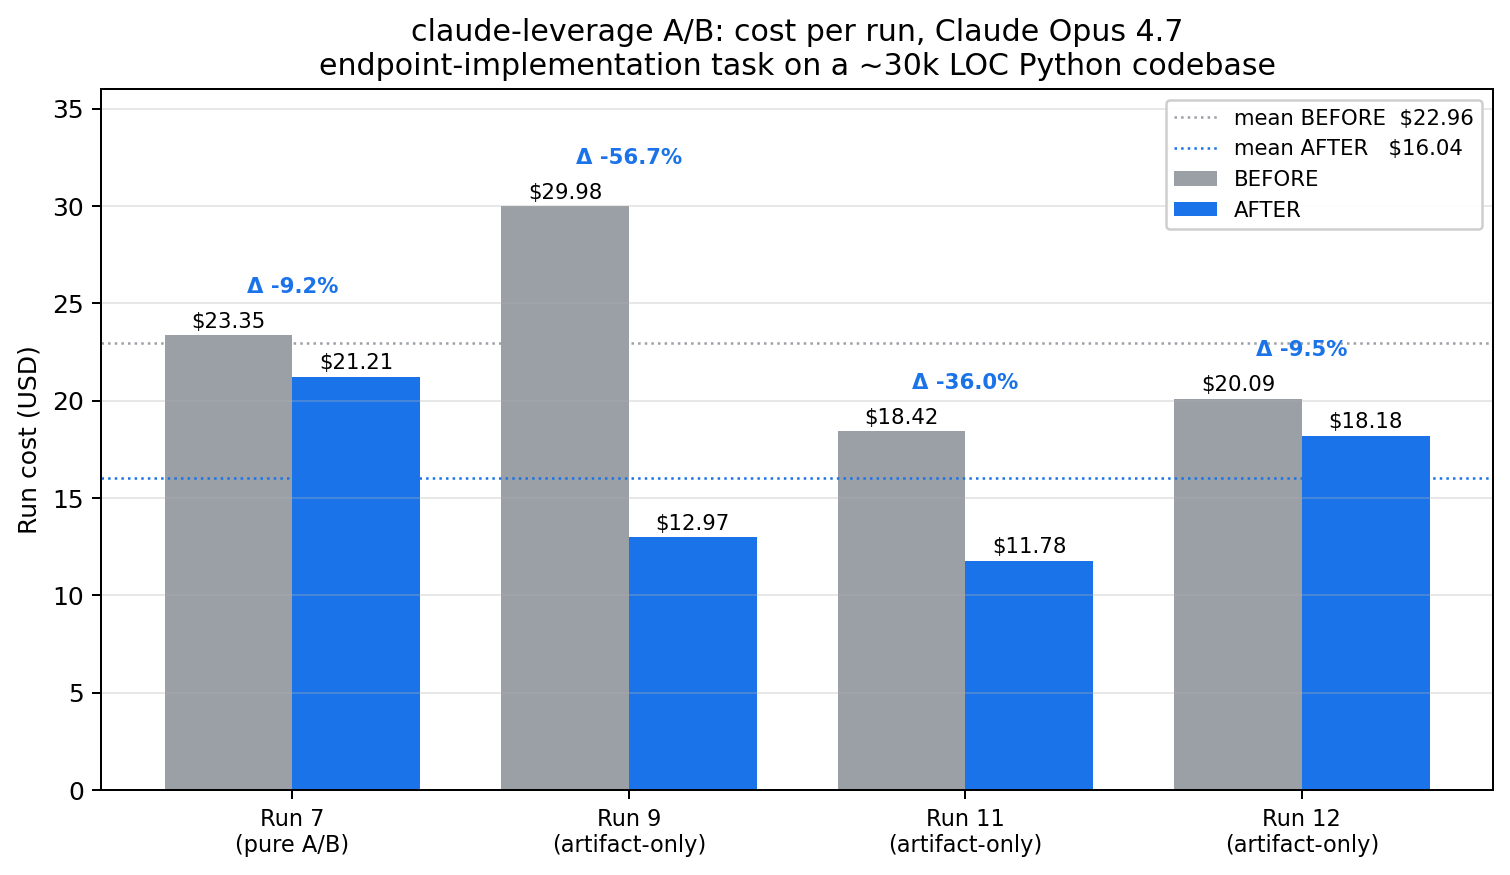
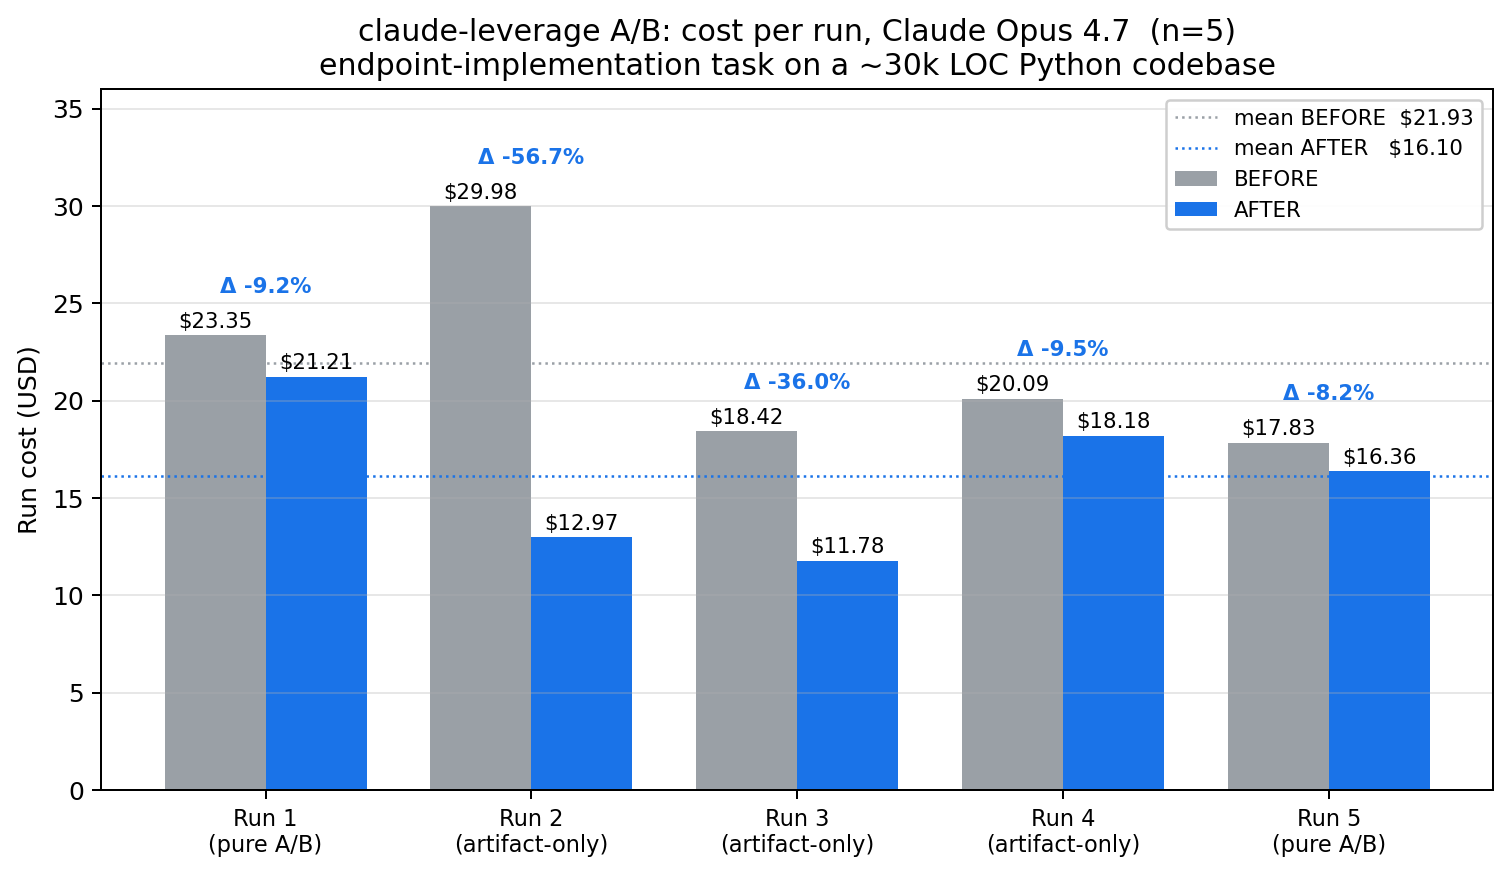
docs(bench): n=5 Opus runs, public Run 1-5 numbering
Adds the 5th Opus 4.7 datapoint and re-numbers the canonical dataset
in all public-facing artifacts (chart, README headline table, methodology
stub) as Run 1-5 sequentially. Internal session IDs remain unchanged
in local benchmark notes.

Updated numbers:
- Mean BEFORE $21.93 / AFTER $16.10 / Δ −26.6%
- Median Δ −9.5% (with the new mid-range datapoint added)
- AFTER cheaper in 5/5 runs (was 4/4)
- AIDEV-NOTE trap caught in 5/5 AFTER runs (was 4/4)
- Per-arm cost std ≈ $4 (revised from ≈ $5)

The "two invalidated runs" wording in caveats replaces "one invalidated"
to reflect both of the runs excluded for network-instability confounders.
Invalidated-run numbers are not surfaced in public artifacts; methodology
stub explains the exclusion without naming numbers.

diff --git a/bench/eval/plot.py b/bench/eval/plot.py
@@ -11,12 +11,14 @@ import matplotlib.pyplot as plt
 import numpy as np
 
 # Opus 4.7 runs on the endpoint-implementation task.
-# One run dropped (network instability during benchmark) — see bench/eval/README.md.
+# Two additional runs dropped (network instability during benchmark) — see
+# bench/eval/README.md for the canonical-vs-invalidated split.
 RUNS = [
-    ("Run 7\n(pure A/B)",       23.35, 21.21),
-    ("Run 9\n(artifact-only)",  29.98, 12.97),
-    ("Run 11\n(artifact-only)", 18.42, 11.78),
-    ("Run 12\n(artifact-only)", 20.09, 18.18),
+    ("Run 1\n(pure A/B)",       23.35, 21.21),
+    ("Run 2\n(artifact-only)",  29.98, 12.97),
+    ("Run 3\n(artifact-only)",  18.42, 11.78),
+    ("Run 4\n(artifact-only)",  20.09, 18.18),
+    ("Run 5\n(pure A/B)",       17.83, 16.36),
 ]
 
 labels = [r[0] for r in RUNS]
@@ -53,7 +55,7 @@ for i, (b, a) in enumerate(zip(before, after)):
 
 ax.set_ylabel("Run cost (USD)")
 ax.set_title(
-    "claude-leverage A/B: cost per run, Claude Opus 4.7\n"
+    "claude-leverage A/B: cost per run, Claude Opus 4.7  (n=5)\n"
     "endpoint-implementation task on a ~30k LOC Python codebase"
 )
 ax.set_xticks(x)

diff --git a/README.md b/README.md
@@ -170,21 +170,21 @@ service). Two trees of the same codebase:
   `context-surface` PreToolUse hook.
 
 Identical implementation task in both arms: add a new paginated HTTP
-endpoint following the conventions documented in each tree. Four
+endpoint following the conventions documented in each tree. Five
 Claude Opus 4.7 runs, plus one Claude Sonnet 4.6 run on a different
 task type (structured-logging migration) for cross-model sanity.
 
 ![A/B benchmark results](bench/eval/results.png)
 
-### Headline (n=4, Opus 4.7)
+### Headline (n=5, Opus 4.7)
 
 | Metric | BEFORE | AFTER | Δ |
 |---|---:|---:|---:|
-| Mean run cost | $22.96 | $16.04 | **−27.9 %** |
-| Median run cost | $21.72 | $15.58 | **−22.8 %** |
-| Files read before first edit | 21.75 | 18.5 | −14.9 % |
-| Load-bearing AIDEV-NOTE trap caught | 0 / 4 | **4 / 4** | |
-| Cost direction | — | cheaper in **4 / 4** runs | |
+| Mean run cost | $21.93 | $16.10 | **−26.6 %** |
+| Median run cost | $20.09 | $16.36 | **−18.6 %** |
+| Files read before first edit | 22.4 | 18.8 | −16.1 % |
+| Load-bearing AIDEV-NOTE trap caught | 0 / 5 | **5 / 5** | |
+| Cost direction | — | cheaper in **5 / 5** runs | |
 
 Plus the separate Sonnet 4.6 run on a logging-migration task: **−40 % cost**.
 
@@ -199,18 +199,18 @@ the saved budget producing **richer, more convention-aware output**:
   often drops to zero. The agent knows where to look because per-
   directory `AGENTS.md` is auto-surfaced by the `context-surface` hook.
 - Fewer files re-read before the first edit (orientation cost ↓ in
-  3 of 4 runs).
-- **But sometimes *more* output tokens produced.** Run 12 AFTER
+  4 of 5 runs).
+- **But sometimes *more* output tokens produced.** Run 4 AFTER
   generated +9.2 % output vs BEFORE, yet the total run still cost
   −9.5 % less.
 
-That "more output" is the **maintainability dividend**. Across all 4
+That "more output" is the **maintainability dividend**. Across all 5
 AFTER runs, the agent:
 
 - Caught a documented load-bearing AIDEV-NOTE trap (a database-driver
   gotcha where the most natural parameter naming would silently produce
   wrong query results in production). The BEFORE agent caught it in
-  **0 / 4** runs.
+  **0 / 5** runs.
 - Used the per-domain `routers/` split instead of dumping the new
   endpoint into the monolithic API file.
 - Used the LRU-cached SQL loader instead of the legacy direct-read form.
@@ -229,12 +229,12 @@ code that doesn't have to be rewritten later.**
 
 ### Caveats (please read before extrapolating)
 
-- Single codebase, single task type, four Opus runs. Plus one Sonnet
+- Single codebase, single task type, five Opus runs. Plus one Sonnet
   run on a different task. This is a *first signal*, not a proof.
-- Cost variance is high (std ≈ $5; delta std ≈ 22 percentage points).
-  The qualitative signal (4 / 4 trap-catch, consistent convention
-  adherence) is more reliable than the cost delta itself.
-- One run was invalidated due to network instability during the
+- Cost variance is high (std ≈ $4 per arm; delta std ≈ 20 percentage
+  points). The qualitative signal (5 / 5 trap-catch, consistent
+  convention adherence) is more reliable than the cost delta itself.
+- Two runs were invalidated due to network instability during the
   benchmark and excluded from the table above.
 - Numbers should not be extrapolated to "X % cost savings on your
   codebase". They should be read as: "claude-leverage measurably

diff --git a/bench/eval/README.md b/bench/eval/README.md
@@ -34,22 +34,30 @@ day, with no carry-over context.
 
 ## Reported runs
 
-| Run | Configuration   | Status                                          |
-|-----|-----------------|-------------------------------------------------|
-| 7   | Pure A/B        | Included                                        |
-| 9   | Artifact-only   | Included                                        |
-| 10  | Artifact-only   | **Excluded** — network instability mid-run      |
-| 11  | Artifact-only   | Included                                        |
-| 12  | Artifact-only   | Included                                        |
+Canonical dataset (numbered as shown in the chart):
+
+| Run | Configuration   | BEFORE  | AFTER   | Δ        |
+|-----|-----------------|--------:|--------:|---------:|
+| 1   | Pure A/B        | $23.35  | $21.21  | −9.1 %   |
+| 2   | Artifact-only   | $29.98  | $12.97  | −56.7 %  |
+| 3   | Artifact-only   | $18.42  | $11.78  | −36.1 %  |
+| 4   | Artifact-only   | $20.09  | $18.18  | −9.5 %   |
+| 5   | Pure A/B        | $17.83  | $16.36  | −8.2 %   |
 
 Plus one Sonnet 4.6 run on a different task type (structured-logging
-migration) for cross-model sanity: **−40 % cost**, not in the chart
-(different model and task, listed separately in the README).
+migration) for cross-model sanity: **−40 % cost** (not in the chart;
+different model and task, listed separately in the top-level README).
 
-Earlier runs (1–5) used pre-v1.8.3 plugin versions where the
-`context-surface` hook was either absent or unreliable due to
-plugin-install state ambiguity; they are not part of the canonical
-dataset. v1.8.3 was the first reliably-working version of the hook.
+Two additional runs were executed but excluded from the canonical
+dataset due to **network instability mid-run** (the operator was on
+an intermittent connection); they produced contaminated transcripts
+and are not surfaced in summaries.
+
+Earlier exploratory runs used pre-v1.8.3 plugin versions where the
+`context-surface` PreToolUse hook was either absent or unreliable due
+to plugin-install state ambiguity; they are not part of the canonical
+dataset. Plugin v1.8.3 was the first reliably-working version of the
+hook.
 
 ## Metrics
 
